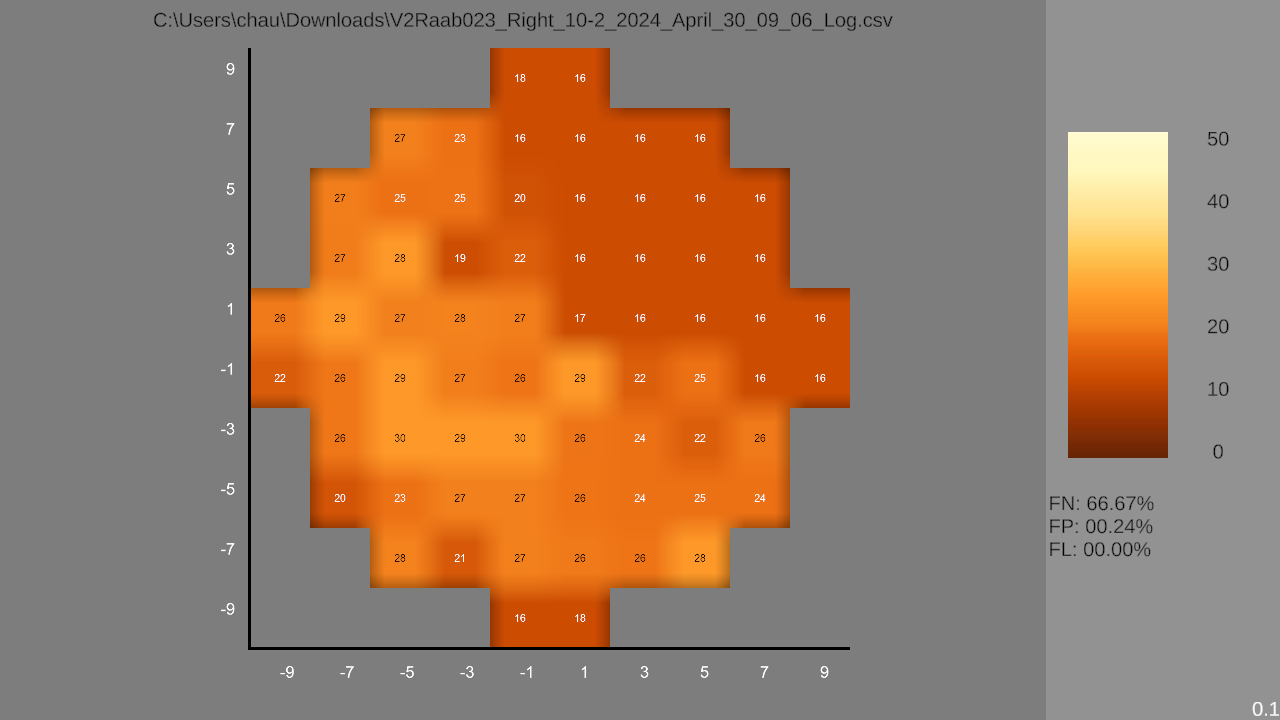
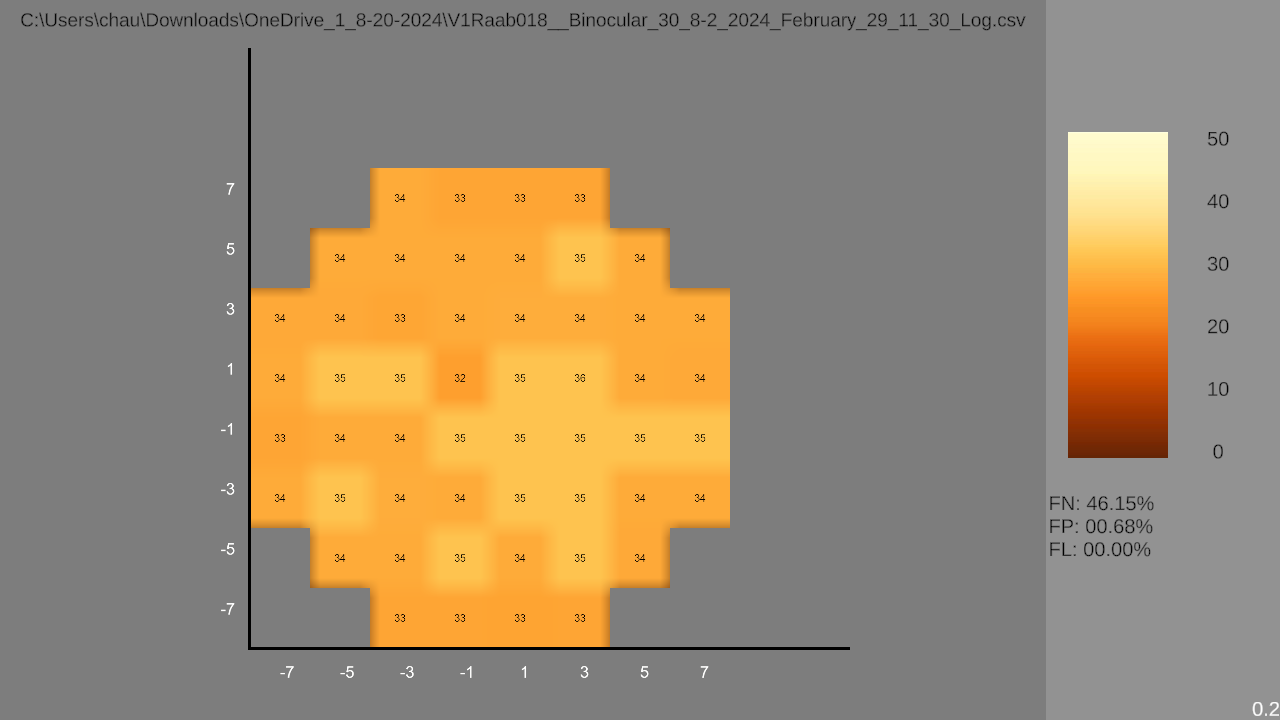
current

diff --git a/Assets/Scripts/Graph.cs b/Assets/Scripts/Graph.cs
@@ -21,6 +21,7 @@ public class Graph : MonoBehaviour
     [SerializeField] private GameObject UnitsGo;
     [SerializeField] private Material heatmapMaterial;
     [Header("UI References")]
+    [SerializeField] private Button SaveScreenshotButton;
     [SerializeField] private Button SaveResultButton;
     [SerializeField] private TMP_Text pathText;
     [SerializeField] private TMP_Text infoText;
@@ -81,7 +82,8 @@ public class Graph : MonoBehaviour
         stepValue = _stepValue;
         unitCountPerAxis = (axisHalfLength * 2 / _stepValue) + 1; // 10 ideally
         unitCountPerAxis *= textureScale; // scale to make it less pixelated
-
+        Debug.Log(stepValue);
+        Debug.Log(axisHalfLength);
         Vector3[] graphPositions = new Vector3[3] { graphMaxVert, graphOrigin, graphMaxHor };
         lineRenderer.positionCount = 3;
         lineRenderer.SetPositions(graphPositions);
@@ -205,7 +207,7 @@ public class Graph : MonoBehaviour
 
         foreach (ResultEntry entry in entries)
         {
-            float percentage = entry.weibull / 50f;
+            float percentage = entry.weibull / 40f;
 
             float colorStep = 1f / (colorSet.Length - 1); // 0.125f
             int groupEnd = Mathf.RoundToInt(percentage / colorStep);
@@ -230,8 +232,8 @@ public class Graph : MonoBehaviour
 
 
             CreateOneUnit(entry.group,
-                entry.locationX / (stepValue / 2),
-                entry.locationY / (stepValue / 2),
+                entry.locationX,
+                entry.locationY,
                 Mathf.Round(entry.weibull)
             );
         }
@@ -239,11 +241,15 @@ public class Graph : MonoBehaviour
     }
     private void CreateOneUnit(int group, float locationX, float locationY, float weibull)
     {
-        string name = $"{locationX}-{locationY}";
+        float unitPosX = locationX / (stepValue / 2);
+        float unitPosY = locationY / (stepValue / 2);
+
+        string name = $"{unitPosX}-{unitPosY}";
         GameObject unitGO;
         try
         {
             unitGO = UnitsGo.transform.Find(name).gameObject;
+            Debug.Log($"{unitPosX}-{unitPosY}");
             unitGO.SetActive(true);
         }
         catch(Exception e)
@@ -253,7 +259,7 @@ public class Graph : MonoBehaviour
         }
 
         GraphUnit unit = unitGO.GetComponent<GraphUnit>();
-        unitGO.transform.position = new Vector3(locationX, locationY, 0f) + new Vector3(axisHalfLength, axisHalfLength, 0f);
+        unitGO.transform.position = new Vector3(unitPosX, unitPosY, 0f) + new Vector3((axisHalfLength * 2 / stepValue), (axisHalfLength * 2 / stepValue), 0f);
 
 
         // 0 - 1  0.0 to 0.125
@@ -266,21 +272,9 @@ public class Graph : MonoBehaviour
         // 7 - 8  0.875 to 1.0
 
 
-        //float stepValue = 1f / (colorSet.Length - 1); // 0.125f
-
-        //int groupEnd = Mathf.RoundToInt(percentage / stepValue);
-        //int groupStart = groupEnd - 1;
-
-        //Color minColor = colorSet[groupStart];
-        //Color maxColor = colorSet[groupEnd];
-
-        //float lerpStep = (percentage - (stepValue * groupEnd))/ stepValue;
-
-        //Color unitColor = Color.Lerp(minColor, maxColor, lerpStep);
-
         float tileSize = 1f / (unitCountPerAxis / textureScale);
 
-        Vector2 tiling = new Vector2(0.1f, 0.1f);
+        Vector2 tiling = new Vector2(tileSize, tileSize);
         Vector2 offset = new Vector2(
             -tileSize * (axisHalfLength - locationX) / stepValue + (1f - tileSize),
             -tileSize * (axisHalfLength - locationY) / stepValue + (1f - tileSize));
@@ -310,6 +304,10 @@ public class Graph : MonoBehaviour
     public void EnableSaveResultButton(bool en)
     {
         SaveResultButton.interactable = en;
+    }
+    public void EnableScreenshotButton()
+    {
+        SaveScreenshotButton.interactable = true;
     }
     public void SaveGraph ()
     {

diff --git a/Assets/Scripts/LogAnalyzer.cs b/Assets/Scripts/LogAnalyzer.cs
@@ -226,7 +226,9 @@ public class LogAnalyzer : MonoBehaviour
         _graph.CreateHeatmapFromList(resultEntries);
         _graph.OutputInfo(info);
         _graph.EnableSaveResultButton(true);
-        
+        _graph.EnableScreenshotButton();
+
+
     }
 
     public void ProcressResultFile(string filepath)
@@ -255,14 +257,16 @@ public class LogAnalyzer : MonoBehaviour
                     percent_FL = float.Parse(values[2]);
                     continue;
                 }
-                else if(l == 3)
+                else if(l == 4)
                 {
+                    // False neg candidates:, 24, False Neg percent:, NaN
+                    if (values.Length == 4)
                     percent_FN = float.Parse(values[3]);
                     continue;
                 }
-                else if (l == 0 || l == 1 || l == 4)
+                else if (l == 0 || l == 1 || l == 3)
                     continue;
-
+                // data start either from 4 or 5
 
                 if (values.Length == 7)
                 {
@@ -333,6 +337,8 @@ public class LogAnalyzer : MonoBehaviour
             _graph.CreateHeatmapFromList(resultEntries);
             _graph.OutputInfo(info);
             _graph.EnableSaveResultButton(false);
+            _graph.EnableScreenshotButton();
+
         }
         
     }
